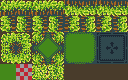
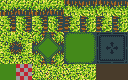
procedural maps - even more fixes and repeated space

diff --git a/lib/game/main.js b/lib/game/main.js
@@ -422,12 +422,13 @@ MyGame = ig.Game.extend({
 		var blueprint = {
 			width: 			28,
 			height: 		14,
+			spaceSize: 		8,
 			tileSize: 		16,
 			spriteSheet: 	'media/maps/' + params.spriteSheet,
 			tiles: {
 				placeholder: 34,
 				floor: 		33,
-				space: 		[35,36],
+				space: 		[35,36,37,38],
 				walls: {
 					top: 	[1,2,3,4],
 					bottom:	[5,6,7,8],
@@ -444,7 +445,8 @@ MyGame = ig.Game.extend({
 			gates: 			['top','left',false,false],
 		},
 		mapData = 			[],
-		collisionData = 	[];
+		collisionData = 	[],
+		spaceData = 		[];
 
 		var rooms = {
         	minWidth: 	6,
@@ -465,6 +467,16 @@ MyGame = ig.Game.extend({
 	            for (var x = 0; x < blueprint.width; x++) {
 	               mapData[y][x] = 0;
 	               collisionData[y][x] = 0;
+	            }
+	        }
+
+	        for (var y = 0; y < blueprint.spaceSize; y++) {
+	            spaceData[y] = [blueprint.spaceSize];
+	        }
+
+	        for (var y = 0; y < blueprint.spaceSize; y++) {
+	            for (var x = 0; x < blueprint.spaceSize; x++) {
+	               spaceData[y][x] = blueprint.tiles.space[(Math.random()*blueprint.tiles.space.length)<<0];
 	            }
 	        }
     	}
@@ -713,6 +725,8 @@ MyGame = ig.Game.extend({
 
 			        if(x <= 0) x = 1;
 			        if(y <= 0) y = 1;
+			        if(x + w >= blueprint.width) x = blueprint.width - w - 2;
+			        if(y + h >= blueprint.height) y = blueprint.height - w - 2;
 			        if(w < rooms.small) w = rooms.small;
 	    			if(h < rooms.small) h = rooms.small;
 
@@ -730,8 +744,10 @@ MyGame = ig.Game.extend({
 			        	x = (main.x + main.w - 1) + ((w*0.5)<<0) - (Math.random()*w)<<0,
 			        	y = main.y - ((w*0.5)<<0) + (Math.random()*(w*0.5))<<0;
 
-			        if(x + w >= blueprint.width) x = blueprint.width - w - 1;
-			        if(y + h >= blueprint.height) y = blueprint.height - w - 1;
+			        if(x <= 0) x = 1;
+			        if(y <= 0) y = 1;
+			        if(x + w >= blueprint.width) x = blueprint.width - w - 2;
+			        if(y + h >= blueprint.height) y = blueprint.height - w - 2;
 					if(w < rooms.small) w = rooms.small;
 	    			if(h < rooms.small) h = rooms.small;
 
@@ -751,6 +767,8 @@ MyGame = ig.Game.extend({
 
 			        if(x <= 0) x = 1;
 			        if(y <= 0) y = 1;
+			        if(x + w >= blueprint.width) x = blueprint.width - w - 2;
+			        if(y + h >= blueprint.height) y = blueprint.height - w - 2;
 			        if(w < rooms.small) w = rooms.small;
 	    			if(h < rooms.small) h = rooms.small;
 
@@ -768,8 +786,10 @@ MyGame = ig.Game.extend({
 			        	x = (main.x + main.w - 1) + ((w*0.5)<<0) - (Math.random()*w)<<0,
 			        	y = main.y + main.h - (Math.random()*(w*0.5))<<0;
 
-			        if(x + w >= blueprint.width) x = blueprint.width - w - 1;
-			        if(y + h >= blueprint.height) y = blueprint.height - w - 1;
+			        if(x <= 0) x = 1;
+			        if(y <= 0) y = 1;
+			        if(x + w >= blueprint.width) x = blueprint.width - w - 2;
+			        if(y + h >= blueprint.height) y = blueprint.height - w - 2;
 			        if(w < rooms.small) w = rooms.small;
 	    			if(h < rooms.small) h = rooms.small;
 
@@ -805,6 +825,19 @@ MyGame = ig.Game.extend({
 
 		// COMBINE EVERYTHING
 
+
+		proceduralMap.layer.push({
+            name: "space",
+            tilesetName: blueprint.spriteSheet + '.png',
+            repeat: true,
+            distance: 1,
+            tilesize: blueprint.tileSize,
+            "width":blueprint.spaceSize*blueprint.tilesize,
+        	"height":blueprint.spaceSize*blueprint.tilesize,
+            foreground: false,
+            data: spaceData,
+        });
+
 		proceduralMap.layer.push({
             name: "dungeons",
             tilesetName: blueprint.spriteSheet + '.png',
@@ -816,6 +849,7 @@ MyGame = ig.Game.extend({
             foreground: false,
             data: mapData,
         });
+
 		proceduralMap.layer.push({
         	name: "collision",
         	repeat: false,
@@ -1663,8 +1697,8 @@ GameLoader = ig.Loader.extend({
     }
 });
 
-	var w = 320,
-		h = 180,
+	var w = 640,
+		h = 360,
 		z = 2,
 		fps = 24;
 
